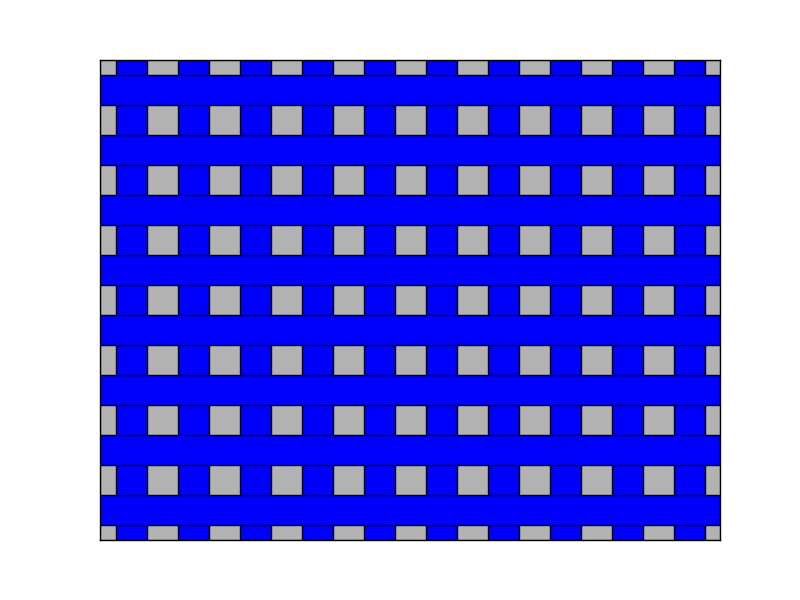
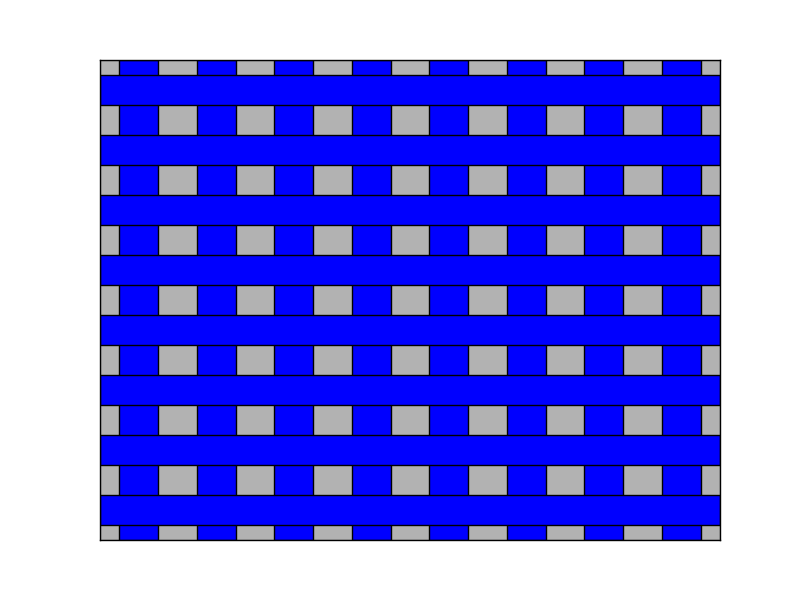
Objetos expertos listos

diff --git a/levels/interaccionParejas/game/client_types/logic.js b/levels/interaccionParejas/game/client_types/logic.js
@@ -147,8 +147,8 @@ module.exports = function(treatmentName, settings, stager, setup, gameRoom) {
         srcImagenesPL1[7] = 'Images/objeto' + 8 + '.png';
         srcImagenesPL1[8] = 'Images/objeto' + 9 + '.png';  // Este es un DUP
         // ... y de los demás objetos
-        for (var i=20; i < 31; i++) {
-          srcImagenesPL1[i-11] = 'Images/objeto' + i + '.png';
+        for (var i=17; i < 28; i++) {
+          srcImagenesPL1[i-8] = 'Images/objeto' + i + '.png';
         }
         // Crea los datos para la explicacion experto
         var explicacionPL1 = [];
@@ -198,8 +198,8 @@ module.exports = function(treatmentName, settings, stager, setup, gameRoom) {
         srcImagenesPL2[7] = 'Images/objeto' + 16 + '.png';
         srcImagenesPL2[8] = 'Images/objeto' + 1 + '.png'; // Este es un XOL
         // ... y de los demás objetos
-        for (var i=17; i < 28; i++) {
-          srcImagenesPL2[i-9] = 'Images/objeto' + i + '.png';
+        for (var i=22; i < 33; i++) {
+          srcImagenesPL2[i-13] = 'Images/objeto' + i + '.png';
         }
         // Crea los datos para la explicacion experto
         var explicacionPL2 = [];

diff --git a/levels/interaccionParejas/game/client_types/player.js b/levels/interaccionParejas/game/client_types/player.js
@@ -129,8 +129,8 @@
           W.setInnerHTML('rotuloExperto', explicacion[0]);
           W.setInnerHTML('tipoPoligono', explicacion[1]);
           W.setInnerHTML('colorRayas', explicacion[2]);
-          W.setInnerHTML('paridadHorizontales', explicacion[4]);
-          W.setInnerHTML('paridadVerticales', explicacion[3]);
+          W.setInnerHTML('paridadHorizontales', explicacion[3]);
+          W.setInnerHTML('paridadVerticales', explicacion[4]);
 
           // switch(countRondas){
           //   case 1:

diff --git a/public/Images/crea_objetos.py b/public/Images/crea_objetos.py
@@ -77,7 +77,7 @@ def dibuja_objeto(tipoPoligono, \
 
 # True: Fondo gris; False: Fondo blanco
 # tipoPoligono = choice([False, True])
-tipoPoligono = True
+tipoPoligono = False
 
 # True: Azul; False: Rojo
 # colorRayas = choice([False, True])
@@ -89,10 +89,10 @@ paridadVerticales = False
 
 # True: Impar; False: Par
 # paridadHorizontales = choice([False, True])
-paridadHorizontales = False
+paridadHorizontales = True
 
-numObjetosInicial = 9
-numObjetosFinal = 16
+numObjetosInicial = 31
+numObjetosFinal = 32
 
 for cont in range(numObjetosInicial, numObjetosFinal + 1):
     dibuja_objeto(tipoPoligono, \
